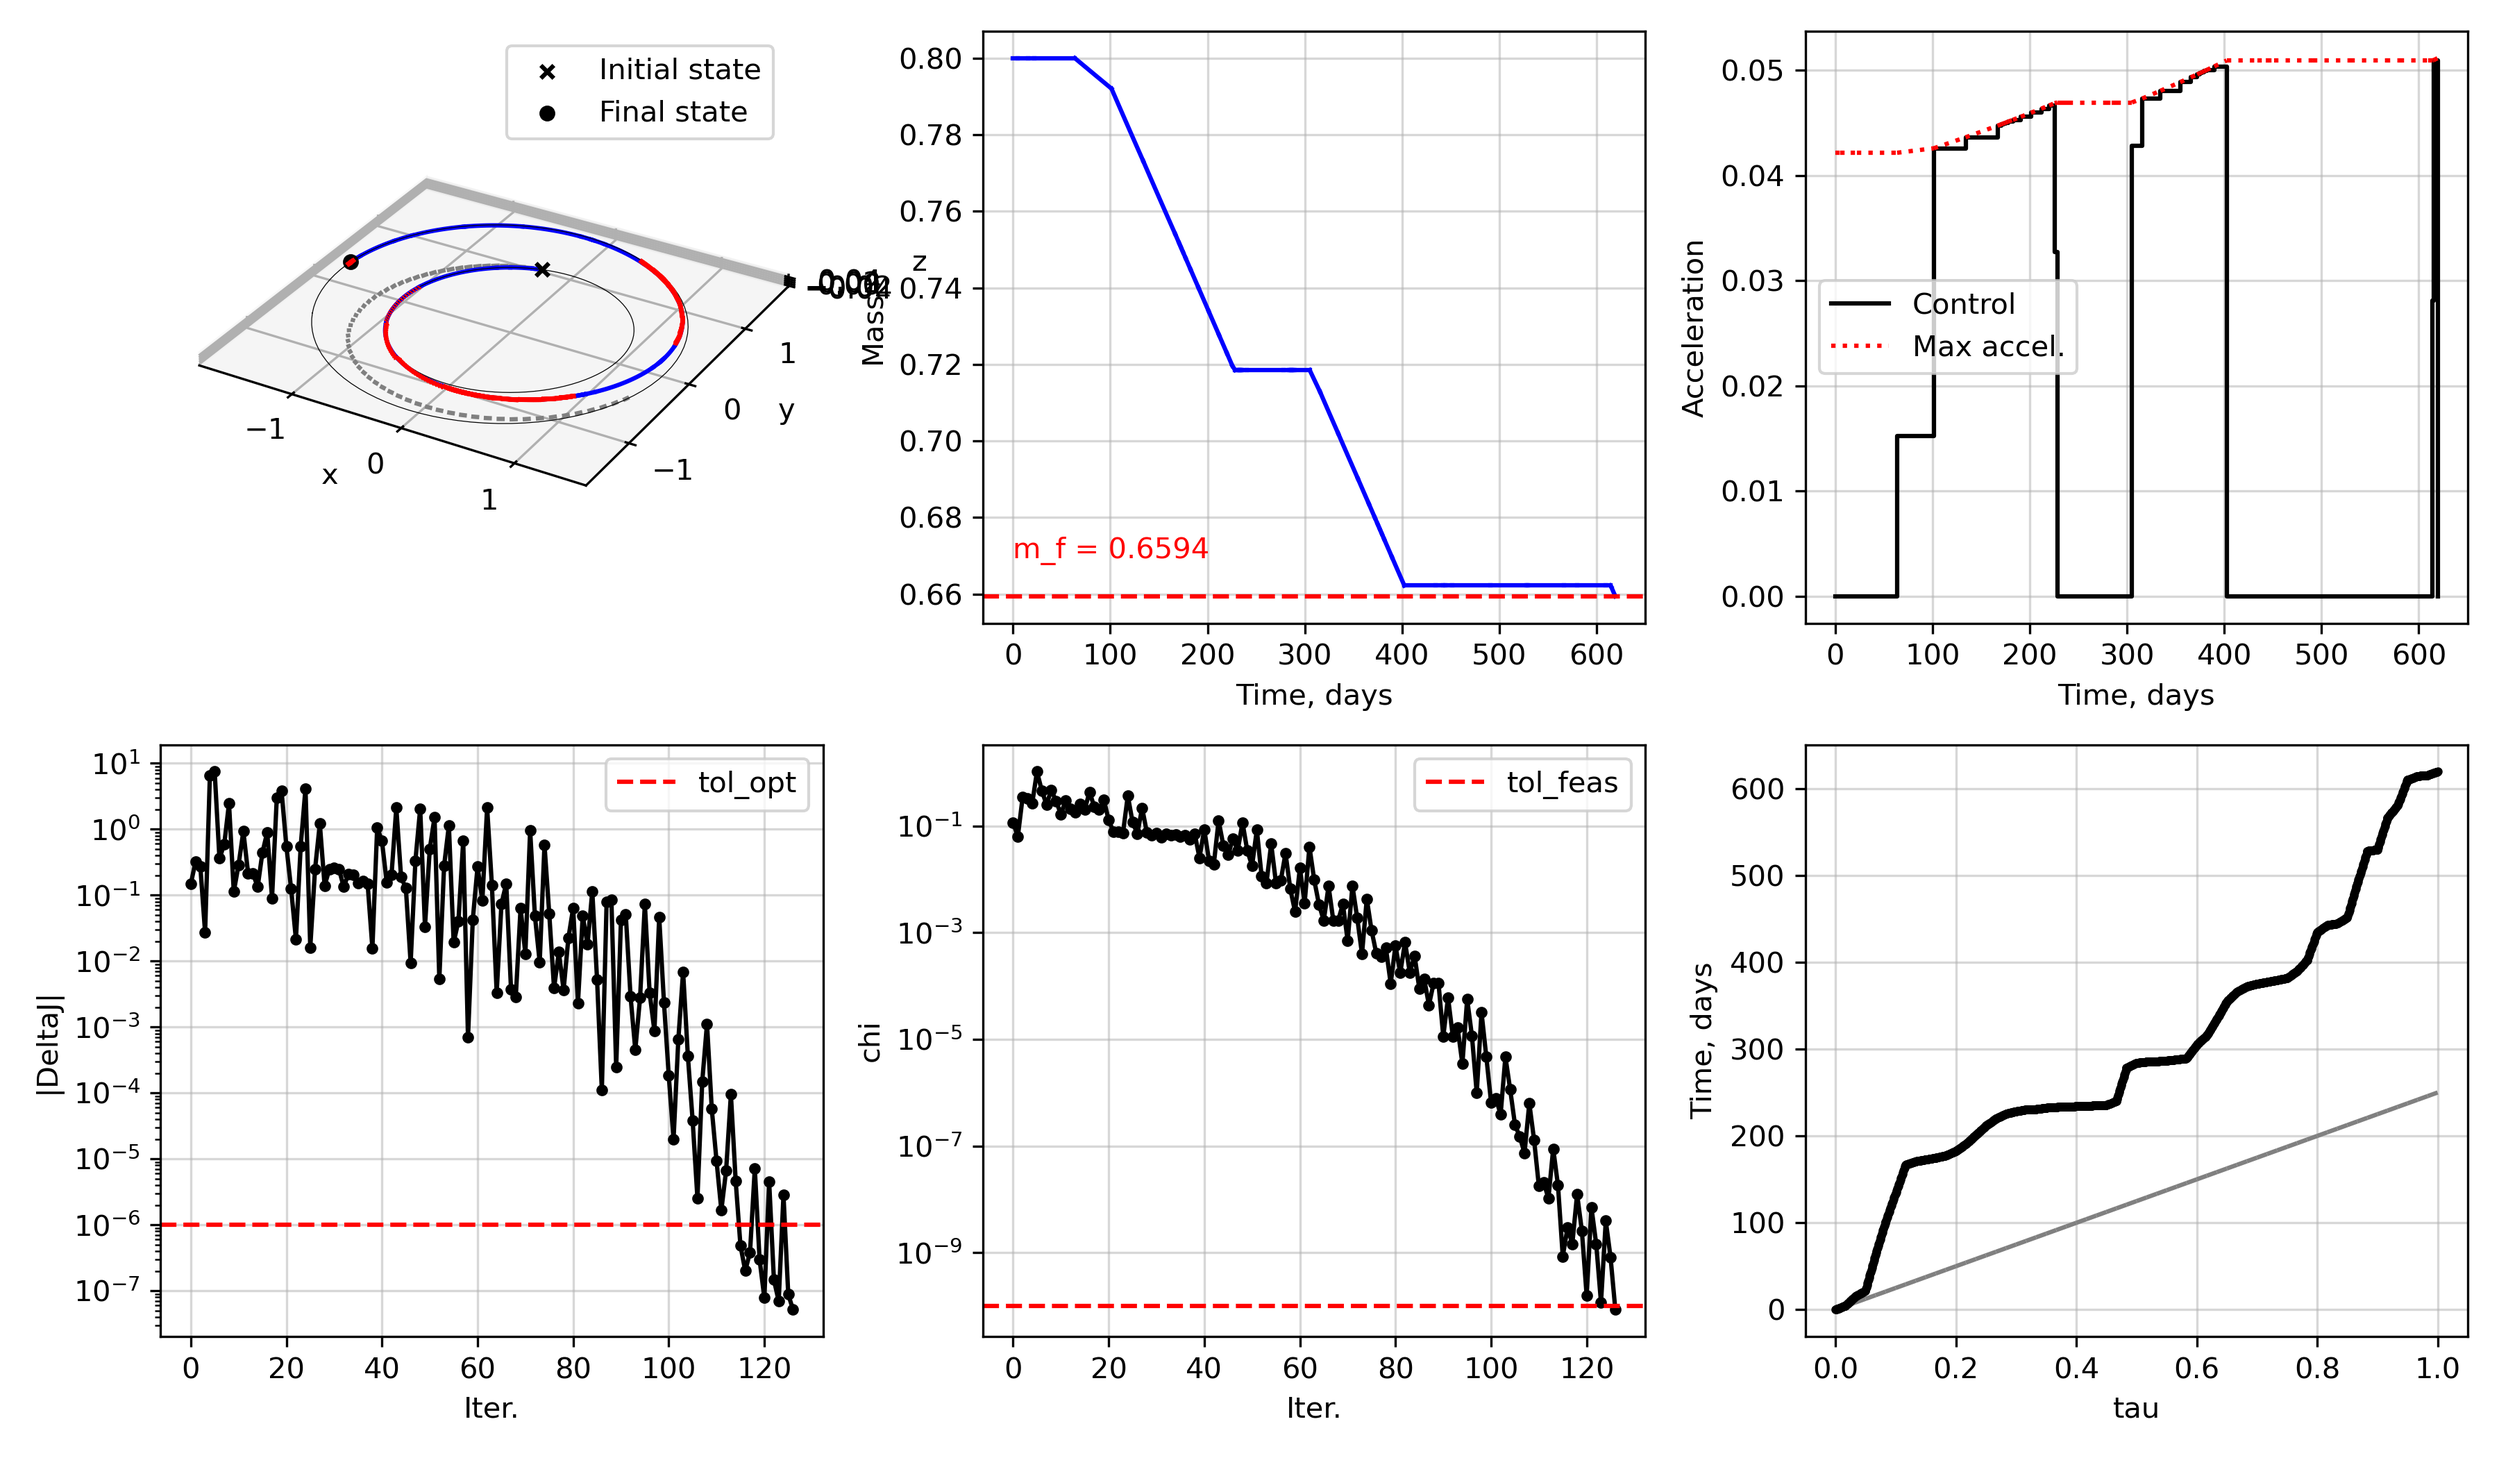
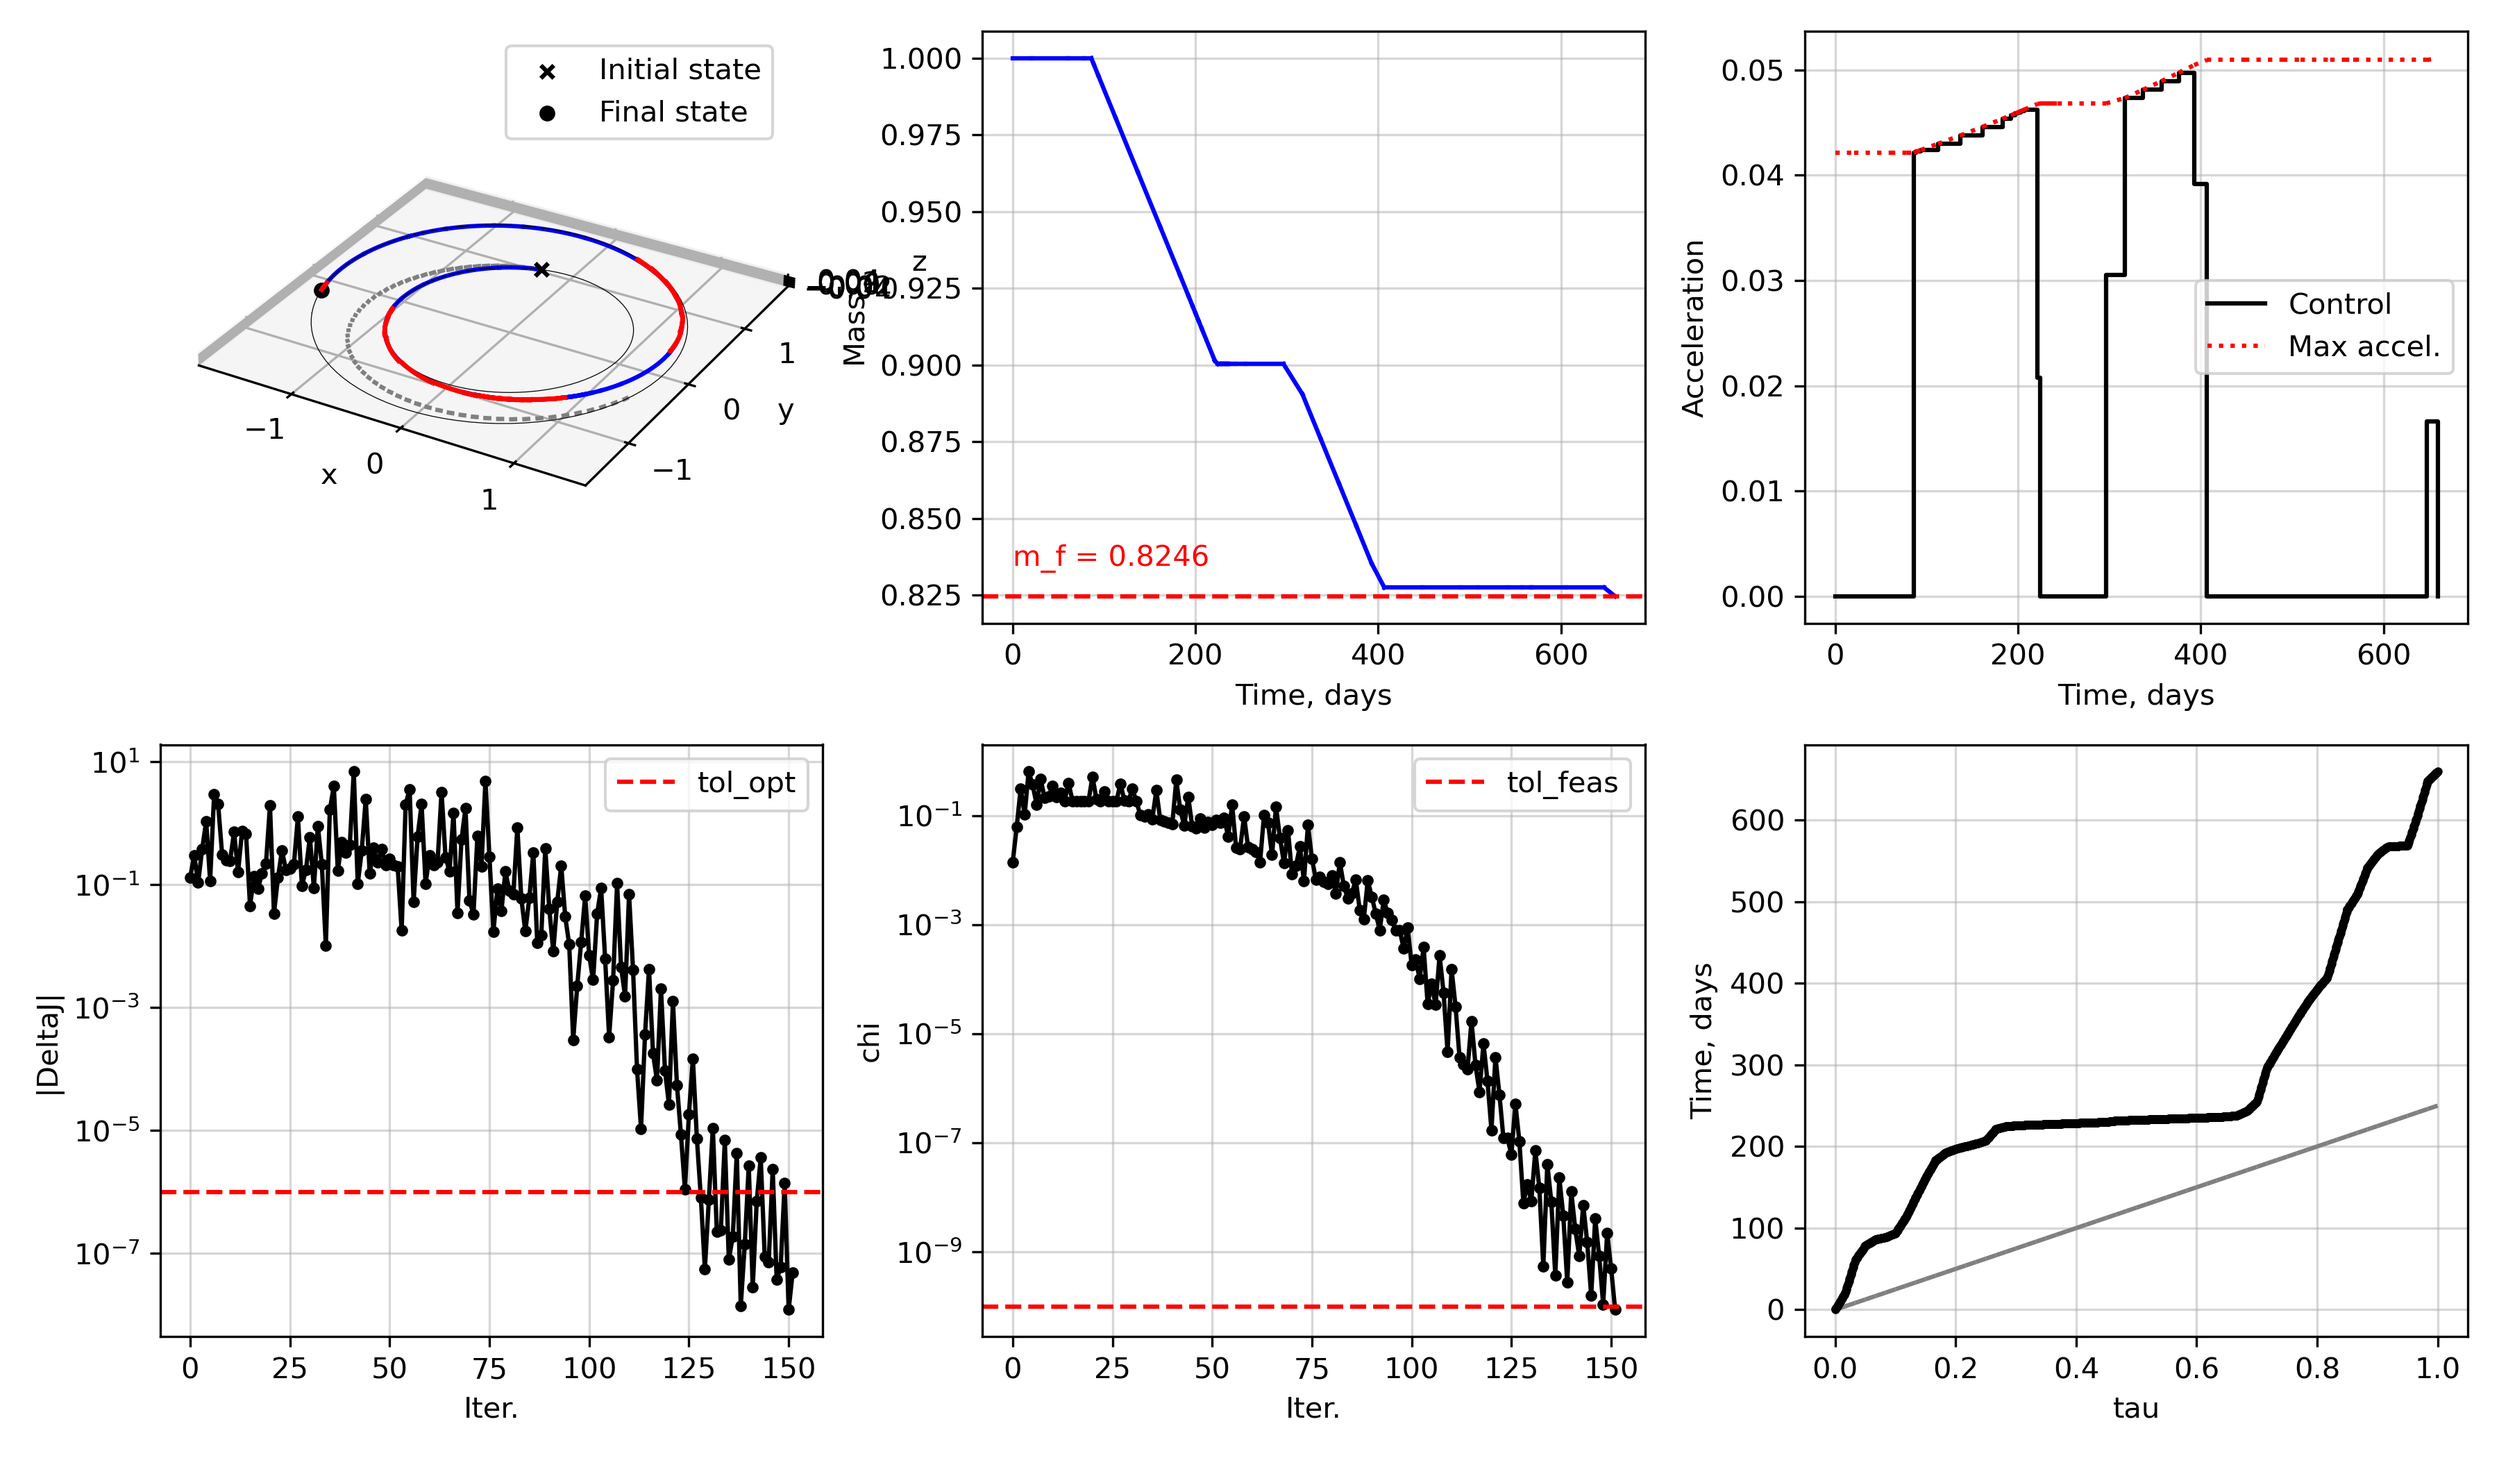
updates to pl2pl

diff --git a/scocp/scocp_pykep/scocp_pl2pl.py b/scocp/scocp_pykep/scocp_pl2pl.py
@@ -77,7 +77,7 @@ class PlanetTarget:
         Returns:
             (np.array): Cartesian state derivative of the target planet at time `epoch`
         """
-        state = self.target_state(t)
+        state = self.target_final_state(t)
         return rhs_twobody(t, state, self.mu)
     
 
@@ -148,8 +148,18 @@ class scocp_pl2pl(ContinuousControlSCOCP):
         self.x0[3:6] = np.array(v0_dim)/self.canonical_scales.VU
         self.x0[6] = np.log(self.mass0)
 
+        # construct initial target object
+        self.target_initial = PlanetTarget(
+            p0,
+            t0_mjd2000 = self.t0_mjd2000,
+            TU2DAY = self.canonical_scales.TU2DAY,
+            DU = self.canonical_scales.DU,
+            VU = self.canonical_scales.VU,
+            mu = self.canonical_scales.mu,
+        )
+
         # construct final target object
-        self.target = PlanetTarget(
+        self.target_final = PlanetTarget(
             pf,
             t0_mjd2000 = self.t0_mjd2000,
             TU2DAY = self.canonical_scales.TU2DAY,
@@ -185,7 +195,7 @@ class scocp_pl2pl(ContinuousControlSCOCP):
         Returns:
             (tuple): tuple of 1D array of time and `(steps,6)` array of state history
         """
-        xf0 = self.target.target_state(0.0)
+        xf0 = self.target_final.target_state(0.0)
         oef = pk.ic2par(xf0[0:3], xf0[3:6], 1.0)
         period = 2*np.pi*np.sqrt(oef[0]**3/1.0)
         t_eval = np.linspace(0, period, steps)
@@ -205,7 +215,7 @@ class scocp_pl2pl(ContinuousControlSCOCP):
         """
         assert xs.shape == (self.N, 8), f"xs must be a `(N,8)` array, but given {xs.shape}"
         vinf_dep = xs[0,3:6] - self.x0[3:6]
-        vinf_arr = xs[-1,3:6] - self.target.target_state(xs[-1,7])[3:6]
+        vinf_arr = xs[-1,3:6] - self.target_final.target_state(xs[-1,7])[3:6]
         return vinf_dep, vinf_arr
     
     def get_initial_guess(self, tof_guess: float):
@@ -221,7 +231,7 @@ class scocp_pl2pl(ContinuousControlSCOCP):
         oe0 = pk.ic2par(self.x0[0:3], self.x0[3:6], self.canonical_scales.mu)
 
         # final orbital elements
-        xf_guess = self.target.target_state(tof_guess)
+        xf_guess = self.target_final.target_state(tof_guess)
         oef = pk.ic2par(xf_guess[0:3], xf_guess[3:6], self.canonical_scales.mu)
 
         elements = np.concatenate((
@@ -308,7 +318,7 @@ class scocp_pl2pl(ContinuousControlSCOCP):
             xs[0,6]                     == self.x0[6],
         ]
         constraints_final = [
-            xs[-1,0:6] - self.target.target_state(xbar[-1,7]) - self.target.target_state_derivative(xbar[-1,7]) * (xs[-1,7] - xbar[-1,7]) == xis[0:6]
+            xs[-1,0:6] - self.target_final.target_state(xbar[-1,7]) - self.target_final.target_state_derivative(xbar[-1,7]) * (xs[-1,7] - xbar[-1,7]) == xis[0:6]
         ]
         constraints_vinf_mag = [
             cp.SOC(vinf_dep_mag[0], vinf_dep_vec[:]),       # connect v-infinity vector to magnitude
@@ -342,7 +352,7 @@ class scocp_pl2pl(ContinuousControlSCOCP):
         Returns:
             (tuple): tuple of 1D arrays of nonlinear equality and inequality constraints
         """
-        g_eq = xs[-1,0:6] - self.target.target_state(xs[-1,7])
+        g_eq = xs[-1,0:6] - self.target_final.target_state(xs[-1,7])
         h_ineq = np.array([
             max(gs[i,0] - self.Tmax * np.exp(-xs[i,6]), 0.0) for i in range(self.N-1)
         ])

diff --git a/examples/compare_pykep.py b/examples/compare_pykep.py
@@ -9,32 +9,32 @@ from pykep.examples import add_gradient, algo_factory
 
 def pykep_direct_pl2pl():
     # 1 - Algorithm
-    # uda = pg.ipopt() # pylint: disable=no-member
-    # uda.set_integer_option("print_level", 5)
-    # uda.set_integer_option("acceptable_iter", 4)
-    # uda.set_integer_option("max_iter", 500)
+    uda = pg.ipopt() # pylint: disable=no-member
+    uda.set_integer_option("print_level", 5)
+    uda.set_integer_option("acceptable_iter", 4)
+    uda.set_integer_option("max_iter", 500)
 
-    # uda.set_numeric_option("tol", 1e-8)
-    # uda.set_numeric_option("dual_inf_tol", 1e-8)
-    # uda.set_numeric_option("constr_viol_tol", 1e-8)
-    # uda.set_numeric_option("compl_inf_tol", 1e-8)
+    uda.set_numeric_option("tol", 1e-8)
+    uda.set_numeric_option("dual_inf_tol", 1e-8)
+    uda.set_numeric_option("constr_viol_tol", 1e-8)
+    uda.set_numeric_option("compl_inf_tol", 1e-8)
 
-    # uda.set_numeric_option("acceptable_tol", 1e-3)
-    # uda.set_numeric_option("acceptable_dual_inf_tol", 1e-2)
-    # uda.set_numeric_option("acceptable_constr_viol_tol", 1e-6)
-    # uda.set_numeric_option("acceptable_compl_inf_tol", 1e-6)
+    uda.set_numeric_option("acceptable_tol", 1e-3)
+    uda.set_numeric_option("acceptable_dual_inf_tol", 1e-2)
+    uda.set_numeric_option("acceptable_constr_viol_tol", 1e-6)
+    uda.set_numeric_option("acceptable_compl_inf_tol", 1e-6)
 
-    # algo = pg.algorithm(uda)
-
-    import pygmo_plugins_nonfree as ppnf
-    uda = ppnf.snopt7(True,
-                     "/Users/yuri/libsnopt7_cpp/libsnopt7_cpp.dylib",
-                     7)
-    uda.set_integer_option("Major iterations limit", 2000)
-    uda.set_integer_option("Iterations limit", 200000)
-    uda.set_numeric_option("Major optimality tolerance", 1e-2)
-    uda.set_numeric_option("Major feasibility tolerance", 1e-9)
     algo = pg.algorithm(uda)
+
+    # import pygmo_plugins_nonfree as ppnf
+    # uda = ppnf.snopt7(True,
+    #                  "/Users/yuri/libsnopt7_cpp/libsnopt7_cpp.dylib",
+    #                  7)
+    # uda.set_integer_option("Major iterations limit", 2000)
+    # uda.set_integer_option("Iterations limit", 200000)
+    # uda.set_numeric_option("Major optimality tolerance", 1e-2)
+    # uda.set_numeric_option("Major feasibility tolerance", 1e-9)
+    # algo = pg.algorithm(uda)
     
     # 2 - Problem
     nseg = 40
@@ -42,15 +42,15 @@ def pykep_direct_pl2pl():
         pk.trajopt.direct_pl2pl(
             p0="earth",
             pf="mars",
-            mass=1000,
-            thrust=0.8, #0.1,
+            mass=800.0,
+            thrust=0.2,
             isp=3000,
             vinf_arr=1e-6,
-            vinf_dep=3.5,
+            vinf_dep=1e-6,
             hf=False,
             nseg=nseg,
             t0=[1100, 1400],
-            tof=[500,600], #[200, 750]
+            tof=[100,800], #[200, 750]
         ),
         with_grad=True
     )
@@ -96,6 +96,5 @@ def scocp_pl2pl():
 
 
 if __name__ == "__main__":
-    #pykep_direct_pl2pl()
-    scocp_pl2pl()
+    pykep_direct_pl2pl()
     plt.show()
